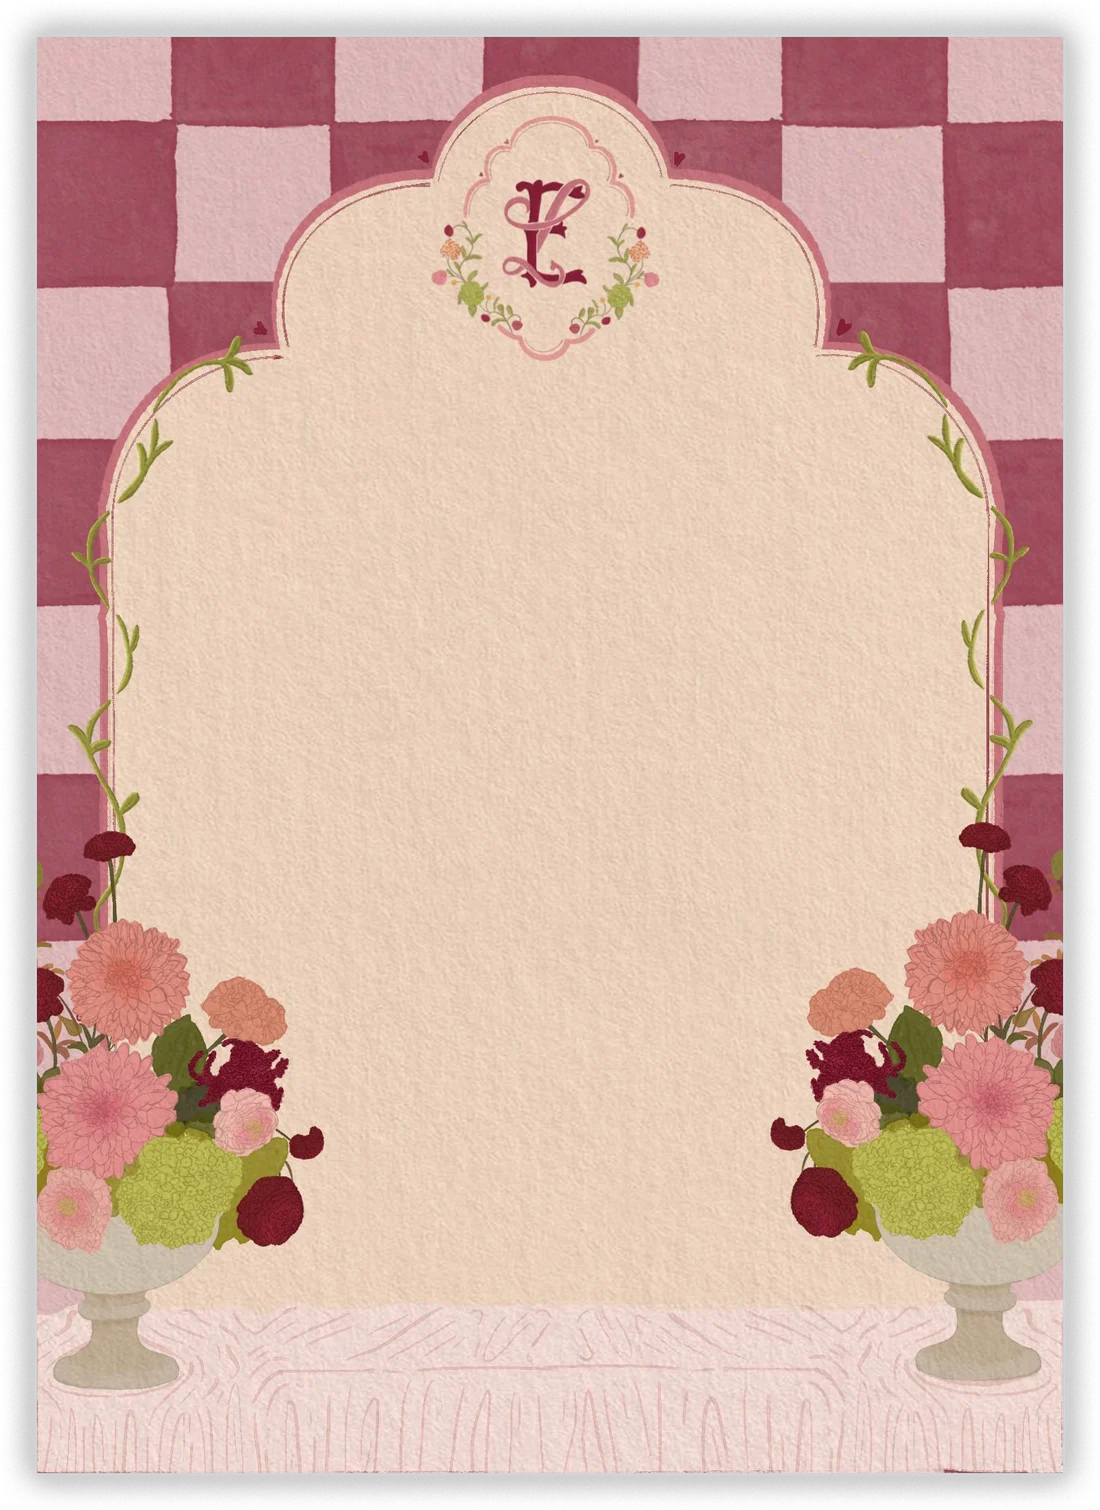
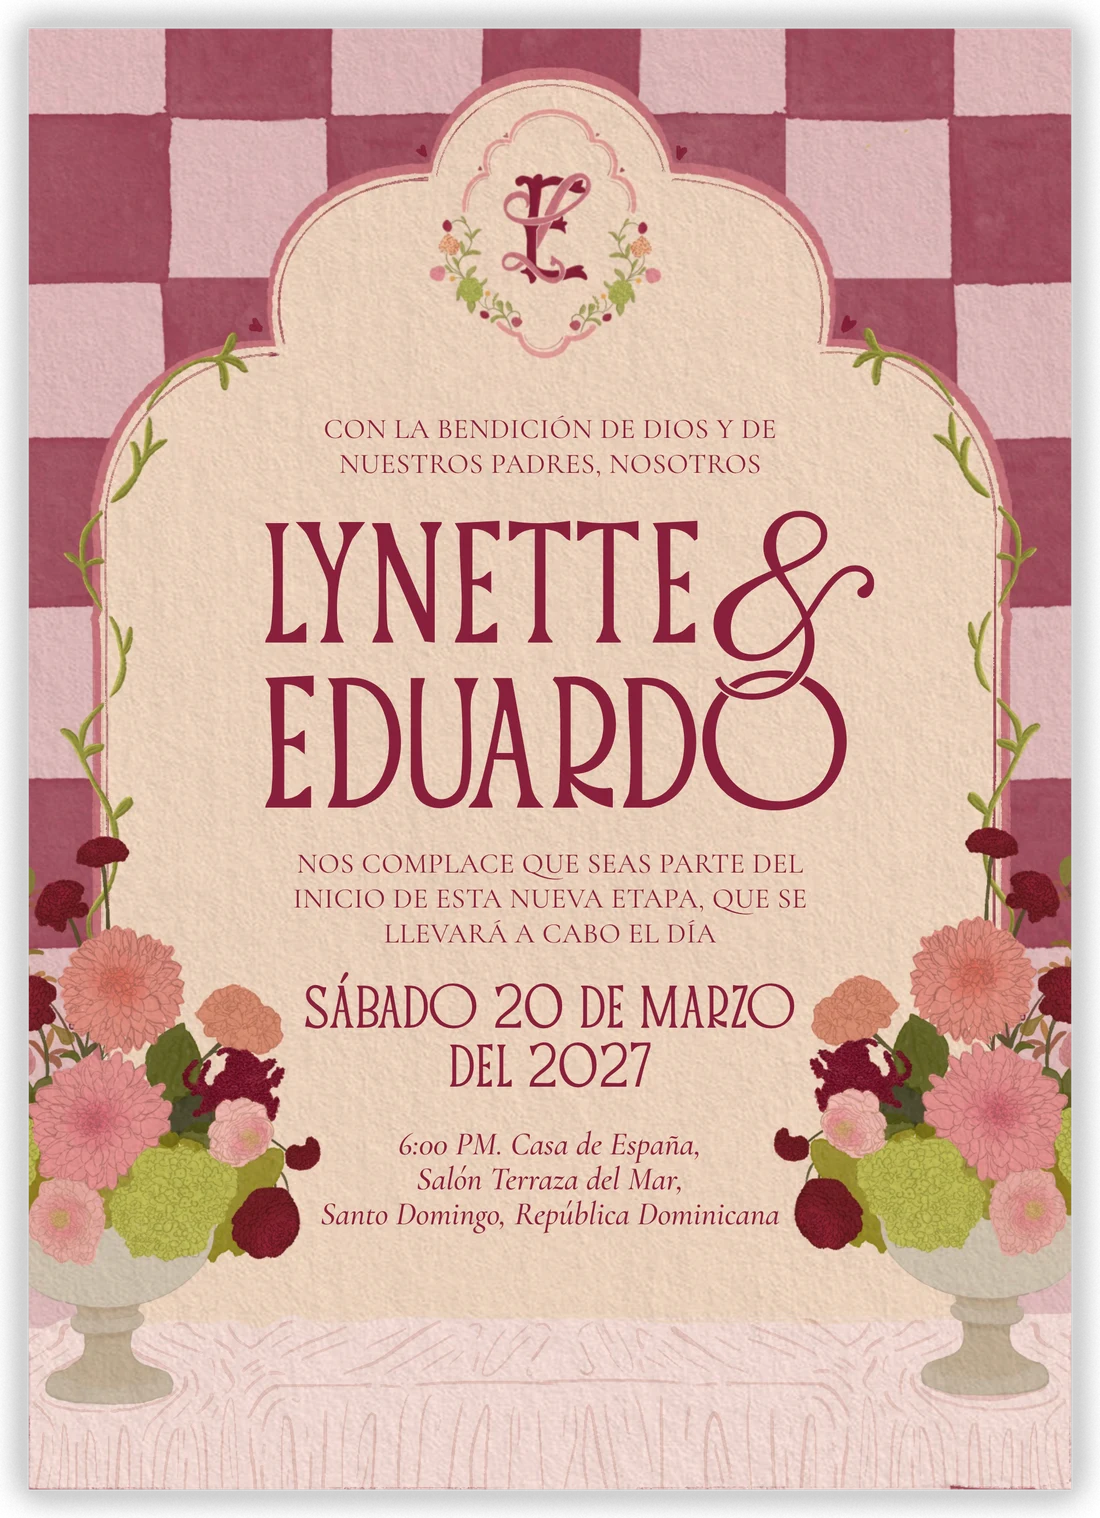
Web L&E: correcciones de Gaby
Sobre nuevo con el sello como la referencia, fondo nuevo del hero,
invitación como imagen, flor vino en lugar de la dalia, texto de
regalos en vino, ramitas con la posición exacta del diseño, salto de
línea en Nos encontramos aquí, código de vestimenta como la referencia,
flor y postales sin cortarse, galería de fotos en Los momentos.

Claude-Session: https://claude.ai/code/session_01C5UpHCu2uQwpEHdVpq7rob

diff --git a/src/components/le-web/le-web.css b/src/components/le-web/le-web.css
@@ -38,7 +38,7 @@ html.lw-locked,html.lw-locked body{overflow:hidden}
 .lw-envelope:hover{transform:translateY(-4px) rotate(-.6deg)}
 .lw .lw-envelope:focus-visible{outline:1px solid rgba(228,204,209,.6);outline-offset:10px}
 .lw-envelope-body{width:100%;height:auto}
-.lw-envelope-seal{position:absolute;width:16%;height:auto;left:42%;top:42%;transition:transform .5s ease,opacity .4s ease}
+.lw-envelope-seal{position:absolute;width:19.3%;height:auto;left:39.8%;top:55.6%;transition:transform .5s ease,opacity .4s ease}
 .lw-envelope:hover .lw-envelope-seal{transform:scale(1.05)}
 .lw-intro-cta{margin-top:clamp(24px,4vh,40px);font-size:clamp(16px,1.7vw,32px);letter-spacing:.14em;text-transform:uppercase;opacity:.9;
   animation:lw-pulse 2.6s ease-in-out infinite}
@@ -49,8 +49,7 @@ html.lw-locked,html.lw-locked body{overflow:hidden}
 .lw-intro.opening{opacity:0;visibility:hidden}
 
 /* ───────── HERO (desktop: 1920×1081 stage, positions from the Figma) ───────── */
-.lw-hero{position:relative;background:var(--grain),var(--rose);overflow:hidden}
-.lw-hero::before{content:"";position:absolute;inset:0;background:url("/assets/le/web/degradado-hero.webp") center bottom/100% 100% no-repeat;opacity:.55;mix-blend-mode:multiply;pointer-events:none}
+.lw-hero{position:relative;z-index:2;background:#EFD9D7 url("/assets/le/web/fondo-hero.webp") center/cover no-repeat}
 .lw-hero-stage{position:relative;width:100%;max-width:1920px;margin:0 auto;aspect-ratio:1920/1081;container-type:inline-size}
 .lw-h{position:absolute;height:auto}
 .lw-h img,.lw-h{height:auto}
@@ -58,28 +57,21 @@ html.lw-locked,html.lw-locked body{overflow:hidden}
 .lw-h-envelope{left:16.35%;top:4.26%;width:48.85%}
 .lw-card{left:44.27%;top:20.72%;width:29.69%;container-type:inline-size}
 .lw-card>img{width:100%;height:auto;filter:drop-shadow(0 10px 22px rgba(90,20,40,.18))}
-.lw-h-dahlia{left:62.34%;top:55.88%;width:23.23%;filter:drop-shadow(0 8px 14px rgba(90,20,40,.18))}
+.lw-h-dahlia{left:66%;top:68%;width:15%;filter:drop-shadow(0 8px 14px rgba(90,20,40,.22))}
 .lw-tag{container-type:inline-size}
 .lw-tag>img{width:100%;height:auto;filter:drop-shadow(0 10px 16px rgba(60,30,10,.2))}
 .lw-tag-rsvp{left:33.23%;top:47.36%;width:18.23%}
 .lw-tag-gifts{left:67.08%;top:10.92%;width:17.14%}
-.lw-hero-vine{position:absolute;right:-1.5%;top:-5%;width:15%;height:auto;transform:rotate(180deg);pointer-events:none;z-index:5}
-
-/* Invitation text over the card */
-.lw-card-text{position:absolute;left:21%;right:21%;top:28.4%;display:flex;flex-direction:column;align-items:center;text-align:center;color:var(--wine2);gap:1.6cqw}
-.lw-card-small{font-size:2.05cqw;letter-spacing:.06em;text-transform:uppercase;line-height:1.25}
-.lw-card-names{margin:.6cqw 0 .4cqw;font-family:'Hanoman',serif;font-weight:400;font-size:10.6cqw;line-height:.92;text-transform:uppercase;letter-spacing:.01em;display:grid;grid-template-columns:auto auto;justify-content:center;align-items:end}
-.lw-card-names span:first-child{grid-column:1;grid-row:1}
-.lw-card-names .lw-amp{grid-column:2;grid-row:1/3;font-size:1.5em;line-height:.8;align-self:center;margin-left:-.05em}
-.lw-card-names span:last-child{grid-column:1;grid-row:2}
-.lw-card-date{font-family:'Hanoman',serif;font-size:4.3cqw;line-height:1.05;text-transform:uppercase;margin-top:.8cqw}
-.lw-card-venue{font-style:italic;font-size:2.15cqw;line-height:1.3;max-width:60%;margin-right:36%}
+.lw-rama-arriba,.lw-rama-abajo{position:absolute;height:auto;pointer-events:none}
+/* exact placement from the Figma: 467×340 at (1453,0) and 606×627 at (0,777) on a 1920×1081 stage */
+.lw-rama-arriba{left:80.6%;top:0;width:19.4%;z-index:6}
+.lw-rama-abajo{left:-1.5%;top:77.9%;width:22.7%;z-index:6}
 
 /* Tag texts (RSVP + Regalos) */
 .lw-tag-text{position:absolute;display:flex;flex-direction:column;align-items:center;text-align:center}
 .lw-tag-rsvp .lw-tag-text{left:20%;right:20%;top:34%;color:var(--olive);font-size:5.4cqw;line-height:1.15;gap:5cqw}
 .lw-tag-by{font-style:italic}
-.lw-tag-gifts .lw-tag-text{left:14%;right:14%;top:42%;color:#FBE7EC;font-size:5.2cqw;line-height:1.2;gap:4cqw}
+.lw-tag-gifts .lw-tag-text{left:14%;right:14%;top:42%;color:var(--wine2);font-size:5.2cqw;line-height:1.2;gap:4cqw}
 .lw-tag-link{font-weight:600;font-size:1em;letter-spacing:.06em;text-transform:uppercase;text-decoration:underline;text-underline-offset:.25em;text-decoration-thickness:1px}
 .lw-tag-rsvp .lw-tag-link{color:var(--olive)}
 .lw-tag-gifts .lw-tag-link{color:var(--wine2)}
@@ -87,15 +79,15 @@ html.lw-locked,html.lw-locked body{overflow:hidden}
 .lw-tag-link:hover{text-decoration-thickness:2px}
 
 /* Entrance after the envelope opens */
-.lw-hero .lw-h,.lw-hero-vine{opacity:0;transform-origin:center}
-.lw.is-open .lw-hero .lw-h,.lw.is-open .lw-hero-vine{animation:lw-drop .9s cubic-bezier(.2,.7,.2,1) both}
+.lw-hero .lw-h,.lw-rama-arriba,.lw-rama-abajo{opacity:0;transform-origin:center}
+.lw.is-open .lw-hero .lw-h,.lw.is-open .lw-rama-arriba,.lw.is-open .lw-rama-abajo{animation:lw-drop .9s cubic-bezier(.2,.7,.2,1) both}
 .lw.is-open .lw-h-envelope{animation-delay:.05s}
 .lw.is-open .lw-card{animation-delay:.2s}
 .lw.is-open .lw-h-stamps{animation-delay:.3s}
 .lw.is-open .lw-tag-rsvp{animation-delay:.4s}
 .lw.is-open .lw-tag-gifts{animation-delay:.5s}
 .lw.is-open .lw-h-dahlia{animation-delay:.6s}
-.lw.is-open .lw-hero-vine{animation-name:lw-fade;animation-delay:.7s}
+.lw.is-open .lw-rama-arriba,.lw.is-open .lw-rama-abajo{animation-name:lw-fade;animation-delay:.7s}
 @keyframes lw-drop{from{opacity:0;translate:0 26px}to{opacity:1;translate:0 0}}
 @keyframes lw-fade{from{opacity:0}to{opacity:1}}
 
@@ -104,14 +96,14 @@ html.lw-locked,html.lw-locked body{overflow:hidden}
 .lw-title{font-family:'Cormorant Garamond',serif;font-style:italic;font-weight:500;font-size:clamp(34px,3.25vw,62px);line-height:1.1;color:var(--wine2);margin:0}
 .lw-title-light{color:var(--blush)}
 .lw-title-sm{font-size:clamp(28px,2.6vw,50px)}
+.lw-br-d{display:inline}
 .lw-lead{font-size:clamp(18px,1.46vw,28px);line-height:1.35;max-width:1210px;color:var(--wine2);margin-top:clamp(8px,1vw,16px)}
 .lw-signoff{font-style:italic;font-weight:500;font-size:clamp(22px,2.2vw,42px);color:var(--blush);margin-top:clamp(18px,2vw,34px)}
 .lw-firma{width:min(78vw,673px);height:auto;margin-top:4px}
 
 /* Historia */
-.lw-story{position:relative;overflow:hidden;background:var(--grain),var(--wine2);color:var(--blush);padding:clamp(48px,6vw,110px) 0 clamp(56px,6vw,110px)}
+.lw-story{position:relative;z-index:1;overflow:hidden;background:var(--grain),var(--wine2);color:var(--blush);padding:clamp(48px,6vw,110px) 0 clamp(56px,6vw,110px)}
 .lw-story .lw-flores{opacity:.22}
-.lw-story-vine{position:absolute;left:-2%;top:-14%;width:clamp(150px,17vw,330px);height:auto;transform:rotate(-24deg);z-index:2;pointer-events:none}
 .lw-photostamps{position:relative;width:clamp(220px,31vw,600px);aspect-ratio:600/340;margin-bottom:clamp(8px,1vw,16px)}
 .lw-ps-1,.lw-ps-2{position:absolute;height:auto;filter:drop-shadow(0 8px 12px rgba(0,0,0,.28))}
 .lw-ps-1{left:6%;top:4%;width:44%}
@@ -129,15 +121,15 @@ html.lw-locked,html.lw-locked body{overflow:hidden}
 .lw-pill-solid:hover{background:var(--wine);color:var(--rose)}
 .lw-dress{position:relative;width:min(1375px,calc(100% - 48px));aspect-ratio:1375/459;margin:clamp(40px,4vw,72px) auto 0;container-type:inline-size}
 .lw-dress-frame{position:absolute;inset:0;width:100%;height:100%}
-.lw-dress-text{position:absolute;inset:8% 9%;display:flex;flex-direction:column;align-items:center;justify-content:center;text-align:center;color:var(--wine2);font-size:clamp(14px,1.75cqw,26px);line-height:1.35}
-.lw-dress-text .lw-title-sm{font-size:clamp(26px,3.5cqw,50px);margin-bottom:.35em}
-.lw-dress-kind{font-style:italic;font-weight:600;font-size:1.35em}
-.lw-dress-note{margin-top:1em}
+.lw-dress-text{position:absolute;inset:8% 11%;display:flex;flex-direction:column;align-items:center;justify-content:center;text-align:center;color:var(--wine2);font-size:clamp(15px,2.25cqw,31px);line-height:1.32}
+.lw .lw-dress-text .lw-title-sm{font-size:clamp(28px,4.5cqw,62px);margin-bottom:.32em}
+.lw .lw-dress-kind{font-style:italic;font-weight:600;font-size:1.42em;margin-bottom:.12em}
+.lw .lw-dress-note{margin-top:1.3em}
 .lw-dress-note em{font-weight:600}
-.lw-place-dahlia{position:absolute;left:-9.6%;bottom:-10%;width:clamp(150px,25vw,488px);height:auto;filter:drop-shadow(0 8px 14px rgba(90,20,40,.2));z-index:3}
+.lw-dress-p1{max-width:92%}
 
 /* Cuenta regresiva */
-.lw-count{position:relative;min-height:clamp(420px,40.6vw,780px);display:flex;align-items:center;justify-content:center;overflow:visible;isolation:isolate}
+.lw-count{position:relative;z-index:2;min-height:clamp(420px,40.6vw,780px);display:flex;align-items:center;justify-content:center;overflow:visible;isolation:isolate}
 .lw-count-photo{position:absolute;inset:0;width:100%;height:100%;object-fit:cover;object-position:50% 46%;z-index:-2}
 .lw-count-shade{position:absolute;inset:0;background:linear-gradient(180deg,rgba(40,10,18,.18),rgba(40,10,18,.34));z-index:-1}
 .lw-count-inner{width:100%;max-width:1240px;padding:48px 24px;text-align:center}
@@ -146,13 +138,19 @@ html.lw-locked,html.lw-locked body{overflow:hidden}
 .lw-count-cell{display:flex;flex-direction:column;align-items:center}
 .lw-count-num{font-family:'Hanoman',serif;font-size:clamp(56px,11vw,212px);line-height:.95;font-variant-numeric:tabular-nums}
 .lw-count-label{font-size:clamp(16px,2.5vw,48px);line-height:1}
-.lw-count-stamps{position:absolute;right:-2%;bottom:-16%;width:clamp(140px,21vw,440px);height:auto;filter:drop-shadow(0 10px 18px rgba(0,0,0,.25));z-index:3;transform:rotate(-4deg)}
+.lw-count-stamps{position:absolute;right:0;bottom:-6.4vw;width:18.4vw;height:auto;filter:drop-shadow(0 10px 18px rgba(0,0,0,.25));z-index:3}
+.lw-count-flower{position:absolute;left:0;top:-5.6vw;width:18.9vw;height:auto;filter:drop-shadow(0 8px 14px rgba(40,10,18,.3));z-index:3;pointer-events:none}
 
 /* Los momentos */
 .lw-moments{position:relative;background:var(--grain),#FFE8EE;padding:clamp(64px,8vw,150px) 0 clamp(64px,8vw,150px)}
 .lw-moments-inner{max-width:1420px;margin:0 auto;padding:0 24px;display:grid;grid-template-columns:minmax(0,586fr) minmax(0,700fr);gap:clamp(28px,5vw,96px);align-items:center}
 .lw-frame{position:relative;width:100%;max-width:586px;justify-self:end;aspect-ratio:690/902}
-.lw-frame-photo{position:absolute;left:17.9%;top:14.6%;width:63.6%;height:61.4%;object-fit:cover;object-position:50% 30%;box-shadow:inset 0 0 0 1px rgba(147,37,63,.3)}
+.lw-gallery{position:absolute;left:17.9%;top:14.6%;width:63.6%;height:61.4%;overflow:hidden;background:#d9b9c0}
+.lw-gallery-photo{position:absolute;inset:0;width:100%;height:100%;object-fit:cover;opacity:0;transform:scale(1.04);transition:opacity 1.2s ease,transform 6s ease}
+.lw-gallery-photo.on{opacity:1;transform:scale(1)}
+.lw-gallery-dots{position:absolute;left:0;right:0;bottom:2%;display:flex;justify-content:center;gap:10px}
+.lw-gallery-dots button{width:9px;height:9px;padding:0;border-radius:50%;border:1.5px solid var(--wine2);background:transparent;cursor:pointer}
+.lw-gallery-dots button.on{background:var(--wine2)}
 .lw-frame-border{position:absolute;inset:0;width:100%;height:100%;object-fit:fill;filter:drop-shadow(0 8px 14px rgba(90,20,40,.14))}
 .lw-moments-text{display:flex;flex-direction:column;align-items:flex-start}
 .lw-moments-title{font-family:'Hanoman',serif;font-weight:400;text-transform:uppercase;color:var(--wine2);font-size:clamp(46px,5.2vw,100px);line-height:.95;margin:0}
@@ -183,13 +181,11 @@ html.lw-locked,html.lw-locked body{overflow:hidden}
   .lw-h-stamps{left:-7%;top:1.7%;width:34%}
   .lw-h-envelope{left:-14%;top:3.4%;width:90%}
   .lw-card{left:23%;top:10.3%;width:73%}
-  .lw-h-dahlia{left:64%;top:46.3%;width:44%}
+  .lw-h-dahlia{left:69%;top:53%;width:28%}
   .lw-tag-rsvp{left:1%;top:57.7%;width:47%;transform:rotate(-4deg)}
   .lw-tag-gifts{left:51%;top:64%;width:46%;transform:rotate(3deg)}
-  .lw-hero-vine{right:-14%;top:-1%;width:38%}
-  .lw-card-small{font-size:2.5cqw}
-  .lw-card-venue{font-size:2.5cqw}
-  .lw-card-text{gap:1.9cqw;left:18%;right:18%}
+  .lw-rama-arriba{left:auto;right:0;width:32%}
+  .lw-rama-abajo{top:auto;bottom:-30vw;left:-4%;width:44%}
   .lw-tag-rsvp .lw-tag-text{font-size:6.6cqw;left:16%;right:16%;top:33%}
   .lw-tag-gifts .lw-tag-text{font-size:6.2cqw;left:12%;right:12%;top:40%}
 
@@ -197,22 +193,23 @@ html.lw-locked,html.lw-locked body{overflow:hidden}
   .lw-flores-l{left:-26vw}.lw-flores-r{right:-26vw}
   .lw-intro .lw-flores{height:auto;width:70vw;top:-2%}
   .lw-story .lw-flores{opacity:.18}
-  .lw-story-vine{top:-60px;left:-40px;width:150px}
+  .lw-story{padding-top:28vw}
+  .lw-br-d{display:none}
   .lw-story-text{text-align:left}
   .lw-story-text p{text-wrap:pretty}
 
   .lw-dress{aspect-ratio:auto;padding:12% 9%;width:calc(100% - 32px)}
   .lw-dress-frame{object-fit:fill}
-  .lw-dress-text{position:relative;inset:auto;font-size:17px}
-  .lw-dress-text .lw-title-sm{font-size:30px}
-  .lw-place-dahlia{left:-18%;bottom:-6%;width:44vw}
+  .lw-dress-text{position:relative;inset:auto;font-size:18px}
+  .lw .lw-dress-text .lw-title-sm{font-size:32px}
 
   .lw-count{min-height:540px}
   .lw-count-photo{object-position:52% 50%}
   .lw-count-grid{grid-template-columns:repeat(2,1fr);row-gap:22px;margin-top:18px}
   .lw-count-num{font-size:clamp(64px,20vw,104px)}
   .lw-count-label{font-size:20px}
-  .lw-count-stamps{right:-6%;bottom:-48px;width:40vw}
+  .lw-count-stamps{right:0;bottom:-13vw;width:34vw}
+  .lw-count-flower{width:32vw;top:-10vw}
 
   .lw-moments-inner{grid-template-columns:1fr;justify-items:center;gap:36px}
   .lw-frame{justify-self:center;width:80%}
@@ -227,7 +224,8 @@ html.lw-locked,html.lw-locked body{overflow:hidden}
 
 @media (prefers-reduced-motion:reduce){
   .lw *{animation:none!important;transition:none!important}
-  [data-reveal],.lw-hero .lw-h,.lw-hero-vine{opacity:1!important;translate:none!important}
+  [data-reveal],.lw-hero .lw-h,.lw-rama-arriba,.lw-rama-abajo{opacity:1!important;translate:none!important}
+  .lw-gallery-photo{transform:none}
 }
 
 /* ───────── Countdown embed (for Canva) ───────── */

diff --git a/src/components/le-web/LeWedding.jsx b/src/components/le-web/LeWedding.jsx
@@ -51,6 +51,45 @@ function useReveal(rootRef, active) {
 
 const pad = n => String(n).padStart(2, "0");
 
+// Fotos de la galería (sección "Los momentos"). Para agregar más: súbelas a
+// public/assets/le/web/galeria/ y añádelas aquí. "pos" = qué parte de la foto
+// se mantiene visible dentro del marco (ej. "50% 30%").
+const GALLERY = [
+  { src: `${A}/foto-momentos.webp`, alt: "Lynette y Eduardo", pos: "50% 30%" },
+  { src: `${A}/foto-cuenta.webp`, alt: "Lynette y Eduardo frente a una reja de hierro", pos: "50% 45%" },
+];
+const GALLERY_MS = 4500;
+
+function Gallery({ photos }) {
+  const [i, setI] = useState(0);
+  const [paused, setPaused] = useState(false);
+  useEffect(() => {
+    if (photos.length < 2 || paused) return;
+    if (window.matchMedia?.("(prefers-reduced-motion: reduce)").matches) return;
+    const id = setInterval(() => setI(n => (n + 1) % photos.length), GALLERY_MS);
+    return () => clearInterval(id);
+  }, [photos.length, paused]);
+  return (
+    <div className="lw-frame" data-reveal onMouseEnter={() => setPaused(true)} onMouseLeave={() => setPaused(false)}>
+      <img className="lw-frame-border" src={`${A}/marco-rosado.webp`} alt="" aria-hidden="true" />
+      <div className="lw-gallery" aria-roledescription="galería" aria-label="Fotos de Lynette y Eduardo">
+        {photos.map((p, n) => (
+          <img key={p.src} className={"lw-gallery-photo" + (n === i ? " on" : "")} src={p.src} alt={n === i ? p.alt : ""}
+            aria-hidden={n !== i} style={{ objectPosition: p.pos }} loading={n === 0 ? "eager" : "lazy"} />
+        ))}
+      </div>
+      {photos.length > 1 && (
+        <div className="lw-gallery-dots">
+          {photos.map((p, n) => (
+            <button key={p.src} type="button" className={n === i ? "on" : ""} aria-label={`Ver foto ${n + 1} de ${photos.length}`}
+              aria-current={n === i} onClick={() => setI(n)} />
+          ))}
+        </div>
+      )}
+    </div>
+  );
+}
+
 function Intro({ onOpen }) {
   const [opening, setOpening] = useState(false);
   const open = () => {
@@ -106,24 +145,20 @@ export default function LeWedding({ portal }) {
       {/* HERO — the invitation suite */}
       <header className="lw-hero">
         <div className="lw-hero-stage">
-          <img className="lw-hero-vine" src={`${A}/enredadera.webp`} alt="" aria-hidden="true" />
+          <img className="lw-rama-arriba" src={`${A}/rama-arriba.webp`} alt="" aria-hidden="true" width="934" height="680" />
+          <img className="lw-rama-abajo" src={`${A}/rama-abajo.webp`} alt="" aria-hidden="true" width="1212" height="1254" />
           <img className="lw-h lw-h-stamps" src={`${A}/sellos-blancos.webp`} alt="" aria-hidden="true" />
           <img className="lw-h lw-h-envelope" src={`${A}/sobre-abierto.webp`} alt="" aria-hidden="true" />
 
           <div className="lw-h lw-card">
-            <img src={`${A}/invitacion.webp`} alt="" aria-hidden="true" />
-            <div className="lw-card-text">
-              <p className="lw-card-small">Con la bendición de Dios y de nuestros padres, nosotros</p>
-              <h1 className="lw-card-names">
-                <span>Lynette</span><span className="lw-amp">&amp;</span><span>Eduardo</span>
-              </h1>
-              <p className="lw-card-small">Nos complace que seas parte del inicio de esta nueva etapa, que se llevará a cabo el día</p>
-              <p className="lw-card-date">Sábado 20 de marzo<br />del 2027</p>
-              <p className="lw-card-venue">{ev.time || "6:00 PM"}. Casa de España, Salón Terraza del Mar, Santo Domingo, República Dominicana</p>
+            <img src={`${A}/invitacion.webp`} alt="" aria-hidden="true" width="1100" height="1518" />
+            <div className="sr-only">
+              <h1>Lynette &amp; Eduardo</h1>
+              <p>Con la bendición de Dios y de nuestros padres, nos complace que seas parte del inicio de esta nueva etapa, que se llevará a cabo el sábado 20 de marzo del 2027, {ev.time || "6:00 PM"}, en Casa de España, Salón Terraza del Mar, Santo Domingo, República Dominicana.</p>
             </div>
           </div>
 
-          <img className="lw-h lw-h-dahlia" src={`${A}/dalia.webp`} alt="" aria-hidden="true" />
+          <img className="lw-h lw-h-dahlia" src={`${A}/flor-vino.webp`} alt="" aria-hidden="true" width="376" height="320" />
 
           <div className="lw-h lw-tag lw-tag-rsvp">
             <img src={`${A}/tarjeta-rsvp.webp`} alt="" aria-hidden="true" />
@@ -151,7 +186,6 @@ export default function LeWedding({ portal }) {
       <section className="lw-story" aria-labelledby="lw-story-title">
         <img className="lw-flores lw-flores-l" src={`${A}/flores-izq.webp`} alt="" aria-hidden="true" />
         <img className="lw-flores lw-flores-r" src={`${A}/flores-der.webp`} alt="" aria-hidden="true" />
-        <img className="lw-story-vine" src={`${A}/enredadera.webp`} alt="" aria-hidden="true" />
         <div className="lw-inner" data-reveal>
           <div className="lw-photostamps" aria-hidden="true">
             <img className="lw-ps-1" src={`${A}/sello-foto-1.webp`} alt="" />
@@ -173,7 +207,7 @@ export default function LeWedding({ portal }) {
         <div className="lw-inner" data-reveal>
           <img className="lw-door" src={`${A}/puerta.webp`} alt="Ilustración de la puerta de Casa de España" width="480" height="702" />
           <h2 id="lw-place-title" className="lw-title">Nos encontramos aquí</h2>
-          <p className="lw-lead">Una buena mesa, nuestra gente favorita y una ocasión para celebrar. Te compartimos la dirección de Casa de España para encontrarnos y crear recuerdos juntos.</p>
+          <p className="lw-lead">Una buena mesa, nuestra gente favorita y una ocasión para celebrar. Te compartimos la dirección de<br className="lw-br-d" /> Casa de España para encontrarnos y crear recuerdos juntos.</p>
           {ev.mapsUrl && <a className="lw-pill" href={ev.mapsUrl} target="_blank" rel="noopener noreferrer">Cómo llegar</a>}
         </div>
         <div className="lw-dress" data-reveal>
@@ -181,16 +215,16 @@ export default function LeWedding({ portal }) {
           <div className="lw-dress-text">
             <h2 className="lw-title lw-title-sm">Código de vestimenta</h2>
             <p className="lw-dress-kind">Formal Attire</p>
-            <p>Para las damas, sugerimos vestido largo, acorde con la elegancia y el carácter formal de la celebración.</p>
+            <p className="lw-dress-p1">Para las damas, sugerimos vestido largo, acorde con la elegancia y el carácter formal de la celebración.</p>
             <p>Para los caballeros, requerimos vestimenta formal con saco.</p>
             <p className="lw-dress-note"><em>Importante:</em> No se permiten chacabanas de ningún tipo.</p>
           </div>
         </div>
-        <img className="lw-place-dahlia" src={`${A}/dalia.webp`} alt="" aria-hidden="true" />
       </section>
 
       {/* CUENTA REGRESIVA */}
       <section className="lw-count" aria-labelledby="lw-count-title">
+        <img className="lw-count-flower" src={`${A}/flor-vino.webp`} alt="" aria-hidden="true" width="376" height="320" />
         <img className="lw-count-photo" src={`${A}/foto-cuenta.webp`} alt="Lynette y Eduardo frente a una reja de hierro" />
         <div className="lw-count-shade" aria-hidden="true" />
         <div className="lw-count-inner" data-reveal>
@@ -210,10 +244,7 @@ export default function LeWedding({ portal }) {
       {/* LOS MOMENTOS */}
       <section className="lw-moments" aria-labelledby="lw-moments-title">
         <div className="lw-moments-inner">
-          <div className="lw-frame" data-reveal>
-            <img className="lw-frame-border" src={`${A}/marco-rosado.webp`} alt="" aria-hidden="true" />
-            <img className="lw-frame-photo" src={`${A}/foto-momentos.webp`} alt="Lynette y Eduardo" />
-          </div>
+          <Gallery photos={GALLERY} />
           <div className="lw-moments-text" data-reveal>
             <h2 id="lw-moments-title" className="lw-moments-title">Los momentos</h2>
             <p className="lw-moments-sub">que nos esperan</p>
